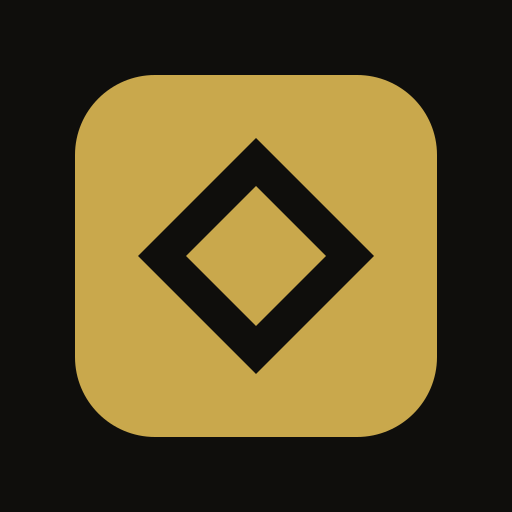
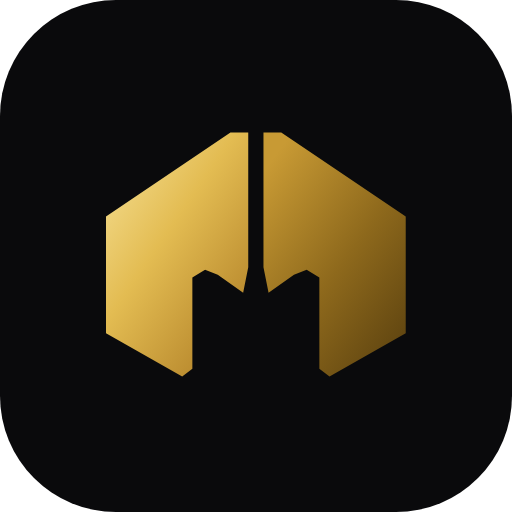
فاز ۲۹۸ی۴: ریبرندِ ملکجت — لوگومارکِ «M» + هیروی سینماییِ صفحهٔ اصلی
بهدستورِ کاربر (آپلودِ melkkhodro.zip). فاز ۱ از ریدیزاین: لوگو + صفحهٔ اصلی.

- Logo.tsx (جدید): لوگومارکِ «M» با دو شِورونِ طلایی، SVGِ وکتور که از پیکسلهای
  فایلِ طراحی تریس شد (viewBox 0 0 118 103، قرینه x=59؛ useId = SSR-safe). در Nav و Footer.
- فاوآیکون/PWA: public/icon.svg بازنویسی + icon-192/512.png از همان SVG رندر شد.
- هیروی صفحهٔ اصلی (HomeClient): سبکِ سینماییِ موکاپ — پسزمینهٔ همیشهتیره (گرادیانِ غروب،
  جای عکسِ ویلا)، دوستونه (متن راست، پنلِ شیشهای چپ)، چیپهای شیشهای.
- HeroSearch: حالتِ glass (پنلِ شیشهایِ بلوردار) اضافه شد.
- globals.css: ریسپانسیوِ دوستونهٔ هیرو (≥880px).

تاییدِ بصری با Playwright (دسکتاپ + موبایل)؛ tsc + build سبز. بقیهٔ صفحات هنوز سبکِ قبلیاند.

Claude-Session: https://claude.ai/code/session_01DpgNXiGwqnhdrqDtvwBqdn

diff --git a/melkjet-nextjs/app/HomeClient.tsx b/melkjet-nextjs/app/HomeClient.tsx
@@ -139,41 +139,49 @@ export default function HomeClient({ initial }: { initial: HomeData }) {
       <Nav />
 
       <main>
-      {/* HERO */}
-      <section style={{ position: 'relative', overflow: 'hidden', padding: 'clamp(52px,7vw,104px) 24px clamp(44px,5vw,80px)' }}>
-        <div style={{ position: 'absolute', inset: 0, pointerEvents: 'none', background: 'radial-gradient(900px 460px at 78% -8%,var(--goldDim),transparent 60%)' }}></div>
-        <div className="mjh-orb" style={{ position: 'absolute', top: '-12%', insetInlineEnd: '-8%', width: 'clamp(300px,38vw,560px)', height: 'clamp(300px,38vw,560px)', borderRadius: '50%', background: 'radial-gradient(circle, rgba(212,175,55,.28), transparent 68%)', filter: 'blur(24px)', pointerEvents: 'none', animation: 'mjfloat 9s ease-in-out infinite' }}></div>
-        <div className="mjh-orb" style={{ position: 'absolute', bottom: '-18%', insetInlineStart: '-10%', width: 'clamp(280px,34vw,520px)', height: 'clamp(280px,34vw,520px)', borderRadius: '50%', background: 'radial-gradient(circle, rgba(122,143,174,.22), transparent 68%)', filter: 'blur(28px)', pointerEvents: 'none', animation: 'mjfloat 11s ease-in-out infinite reverse' }}></div>
-        <div style={{ position: 'absolute', inset: 0, pointerEvents: 'none', backgroundImage: 'linear-gradient(var(--line) 1px,transparent 1px),linear-gradient(90deg,var(--line) 1px,transparent 1px)', backgroundSize: '54px 54px', opacity: 0.35, maskImage: 'radial-gradient(60% 55% at 50% 30%, #000, transparent 80%)', WebkitMaskImage: 'radial-gradient(60% 55% at 50% 30%, #000, transparent 80%)' }}></div>
-        <div style={{ position: 'relative', maxWidth: 980, margin: '0 auto', textAlign: 'center' }}>
-          <div style={{ display: 'inline-flex', alignItems: 'center', gap: 8, padding: '7px 14px', borderRadius: 999, border: '1px solid var(--gold)', background: 'var(--goldDim)', fontSize: 13, fontWeight: 700, color: 'var(--gold)' }}>
-            <span style={{ width: 7, height: 7, borderRadius: '50%', background: 'var(--gold)', boxShadow: '0 0 0 4px var(--goldDim)', animation: 'glow 2s infinite', display: 'inline-block' }}></span>
-            سیستمِ جامعِ املاک، ساختمان و مصالح
+      {/* HERO — ریبرندِ سینماییِ ۲۹۸ی۴ (همیشه تیره، مطابقِ موکاپ؛ عکسِ غروب بعداً جایگزینِ گرادیان) */}
+      <section style={{ position: 'relative', overflow: 'hidden', background: '#080b14', color: '#f3ede0', padding: 'clamp(56px,7vw,112px) 24px clamp(56px,7vw,96px)' }}>
+        {/* لایههای غروبِ سینمایی: آسمانِ شب بالا → درخششِ کهرباییِ افق → زمینِ تیره */}
+        <div aria-hidden style={{ position: 'absolute', inset: 0, pointerEvents: 'none', background: 'radial-gradient(1200px 560px at 70% 48%, rgba(236,151,56,.40), rgba(188,108,38,.14) 42%, transparent 70%), radial-gradient(880px 440px at 85% -12%, rgba(247,222,146,.20), transparent 62%), linear-gradient(180deg,#060810 0%,#0a0e1a 36%,#171209 100%)' }}></div>
+        <div className="mjh-orb" style={{ position: 'absolute', top: '-10%', insetInlineEnd: '-6%', width: 'clamp(300px,38vw,560px)', height: 'clamp(300px,38vw,560px)', borderRadius: '50%', background: 'radial-gradient(circle, rgba(236,170,70,.30), transparent 68%)', filter: 'blur(26px)', pointerEvents: 'none', animation: 'mjfloat 9s ease-in-out infinite' }}></div>
+        <div className="mjh-orb" style={{ position: 'absolute', bottom: '-20%', insetInlineStart: '-10%', width: 'clamp(280px,34vw,520px)', height: 'clamp(280px,34vw,520px)', borderRadius: '50%', background: 'radial-gradient(circle, rgba(70,96,150,.26), transparent 68%)', filter: 'blur(30px)', pointerEvents: 'none', animation: 'mjfloat 11s ease-in-out infinite reverse' }}></div>
+        {/* وینیِتِ پایین برای عمق */}
+        <div aria-hidden style={{ position: 'absolute', left: 0, right: 0, bottom: 0, height: '46%', pointerEvents: 'none', background: 'linear-gradient(180deg,transparent,rgba(4,6,11,.82))' }}></div>
+
+        <div className="mjhero-grid" style={{ position: 'relative', maxWidth: 1200, margin: '0 auto', display: 'grid', gridTemplateColumns: '1fr', gap: 'clamp(30px,4vw,52px)', alignItems: 'center' }}>
+          {/* ستونِ متن (سمتِ راست/آغاز در RTL) */}
+          <div style={{ textAlign: 'right' }}>
+            <div style={{ display: 'inline-flex', alignItems: 'center', gap: 8, padding: '7px 14px', borderRadius: 999, border: '1px solid rgba(247,222,146,.4)', background: 'rgba(247,222,146,.09)', fontSize: 13, fontWeight: 700, color: '#F7DE92' }}>
+              <span style={{ width: 7, height: 7, borderRadius: '50%', background: '#F7DE92', boxShadow: '0 0 0 4px rgba(247,222,146,.18)', animation: 'glow 2s infinite', display: 'inline-block' }}></span>
+              سیستمِ جامعِ املاک، ساختمان و مصالح
+            </div>
+            <h1 style={{ marginTop: 20, fontSize: 'clamp(34px,5.6vw,62px)', lineHeight: 1.14, fontWeight: 800, letterSpacing: '-1px', color: '#F6F1E6', textShadow: '0 2px 30px rgba(0,0,0,.4)' }}>
+              خانهی بعدیات،<br />
+              <span style={{ background: 'linear-gradient(120deg,#F7DE92,#D9AD3E)', WebkitBackgroundClip: 'text', WebkitTextFillColor: 'transparent', backgroundClip: 'text' }}>هوشمندانه</span> انتخاب میشود
+            </h1>
+            <p style={{ margin: '20px 0 0', maxWidth: 560, fontSize: 'clamp(15px,2vw,18.5px)', lineHeight: 1.85, color: 'rgba(244,238,225,.78)' }}>
+              به زبان خودت بگو چه میخواهی. ملکجت بازار را تحلیل میکند، دلیل هر پیشنهاد را توضیح میدهد و کنارت میماند تا بهترین تصمیم را بگیری.
+            </p>
+            {/* دسترسیِ سریع به همهٔ اکوسیستمها — قرصهای شیشهای */}
+            <div style={{ display: 'flex', flexWrap: 'wrap', gap: 10, marginTop: 26 }}>
+              {[
+                { l: 'خرید و اجارهٔ ملک', h: '/search', ic: '🏠' },
+                { l: 'بازارِ مصالح', h: '/materials-market', ic: '🧱' },
+                { l: 'نرخِ روزِ مصالح', h: '/materials-prices', ic: '📊' },
+                { l: 'متخصصان', h: '/directory', ic: '👷' },
+                { l: 'سازندگان', h: '/builders', ic: '🏗' },
+                { l: 'دستیارِ AI', h: '/plan-ai', ic: '🤖' },
+              ].map(p => (
+                <Link key={p.l} href={p.h} style={{ display: 'inline-flex', alignItems: 'center', gap: 7, padding: '9px 16px', borderRadius: 999, border: '1px solid rgba(247,222,146,.22)', background: 'rgba(255,255,255,.05)', color: 'rgba(244,238,225,.9)', textDecoration: 'none', fontSize: 13, fontWeight: 600, backdropFilter: 'blur(6px)' }}>
+                  <span>{p.ic}</span>{p.l}
+                </Link>
+              ))}
+            </div>
           </div>
-          <h1 style={{ marginTop: 22, fontSize: 'clamp(34px,6vw,64px)', lineHeight: 1.12, fontWeight: 800, letterSpacing: '-1px', color: 'var(--text)' }}>
-            خانهی بعدیات،<br />
-            <span style={{ background: 'linear-gradient(120deg,var(--gold2),var(--gold))', WebkitBackgroundClip: 'text', WebkitTextFillColor: 'transparent', backgroundClip: 'text' }}>هوشمندانه</span> انتخاب میشود
-          </h1>
-          <p style={{ margin: '20px auto 0', maxWidth: 620, fontSize: 'clamp(15px,2vw,18.5px)', lineHeight: 1.85, color: 'var(--muted)' }}>
-            به زبان خودت بگو چه میخواهی. ملکجت بازار را تحلیل میکند، دلیل هر پیشنهاد را توضیح میدهد و کنارت میماند تا بهترین تصمیم را بگیری.
-          </p>
 
-          <HeroSearch examples={examples} />
-
-          {/* دسترسیِ سریع به همهٔ اکوسیستمها */}
-          <div style={{ display: 'flex', flexWrap: 'wrap', justifyContent: 'center', gap: 10, marginTop: 26 }}>
-            {[
-              { l: 'خرید و اجارهٔ ملک', h: '/search', ic: '🏠' },
-              { l: 'بازارِ مصالح', h: '/materials-market', ic: '🧱' },
-              { l: 'نرخِ روزِ مصالح', h: '/materials-prices', ic: '📊' },
-              { l: 'متخصصان', h: '/directory', ic: '👷' },
-              { l: 'سازندگان', h: '/builders', ic: '🏗' },
-              { l: 'دستیارِ AI', h: '/plan-ai', ic: '🤖' },
-            ].map(p => (
-              <Link key={p.l} href={p.h} style={{ display: 'inline-flex', alignItems: 'center', gap: 7, padding: '9px 16px', borderRadius: 999, border: '1px solid var(--line2)', background: 'var(--surface)', color: 'var(--text)', textDecoration: 'none', fontSize: 13, fontWeight: 600 }}>
-                <span>{p.ic}</span>{p.l}
-              </Link>
-            ))}
+          {/* ستونِ پنلِ جستوجو (سمتِ چپ/پایان) — پنلِ شیشهای */}
+          <div style={{ width: '100%' }}>
+            <HeroSearch examples={examples} glass />
           </div>
         </div>
       </section>

diff --git a/melkjet-nextjs/app/components/home/HeroSearch.tsx b/melkjet-nextjs/app/components/home/HeroSearch.tsx
@@ -4,22 +4,35 @@ import { useRouter } from 'next/navigation'
 
 // جزیرهٔ تعاملیِ جعبهٔ جستجوی صفحهٔ اصلی. بقیهٔ صفحه server-render میشود؛ فقط همین
 // (بههمراه FAQ و دکمهٔ لایک) در مرورگر hydrate میشود تا main-thread سبک بماند.
-export default function HeroSearch({ examples }: { examples: string[] }) {
+// فاز ۲۹۸ی۴ (ریبرند): حالتِ glass — پنلِ شیشهایِ هیروی سینماییِ تیره (مطابقِ موکاپ).
+export default function HeroSearch({ examples, glass = false }: { examples: string[]; glass?: boolean }) {
   const [query, setQuery] = useState('')
   const router = useRouter()
   const runSearch = () => { const q = query.trim(); router.push(q ? `/search?q=${encodeURIComponent(q)}` : '/search') }
   const fillQuery = (text: string) => { setQuery(text); router.push(`/search?q=${encodeURIComponent(text)}`) }
+
+  const card: React.CSSProperties = glass
+    ? { position: 'relative', background: 'rgba(20,22,30,.52)', border: '1px solid rgba(247,222,146,.26)', borderRadius: 24, padding: 20, boxShadow: '0 30px 80px -30px rgba(0,0,0,.7), inset 0 1px 0 rgba(255,255,255,.06)', backdropFilter: 'blur(20px)', WebkitBackdropFilter: 'blur(20px)' }
+    : { position: 'relative', background: 'var(--surface)', border: '1px solid var(--line2)', borderRadius: 18, padding: 18, boxShadow: 'var(--shadow)' }
+  const taColor = glass ? '#f3ede0' : 'var(--text)'
+  const sendBtn: React.CSSProperties = { flexShrink: 0, height: 48, padding: '0 22px', border: 'none', borderRadius: 13, background: 'linear-gradient(140deg,#F7DE92,#D9AD3E 60%,#A9761D)', color: '#16140f', fontFamily: 'inherit', fontWeight: 800, fontSize: 15, cursor: 'pointer', boxShadow: '0 12px 28px -10px rgba(217,173,62,.7)' }
+  const hintColor = glass ? 'rgba(244,238,225,.6)' : 'var(--faint)'
+  const chip: React.CSSProperties = glass
+    ? { padding: '7px 13px', borderRadius: 999, border: '1px solid rgba(247,222,146,.22)', background: 'rgba(255,255,255,.05)', color: 'rgba(244,238,225,.85)', fontFamily: 'inherit', fontSize: 12.5, cursor: 'pointer' }
+    : { padding: '7px 13px', borderRadius: 999, border: '1px solid var(--line)', background: 'var(--bg2)', color: 'var(--muted)', fontFamily: 'inherit', fontSize: 12.5, cursor: 'pointer' }
+  const divider = glass ? '1px solid rgba(247,222,146,.16)' : '1px solid var(--line)'
+
   return (
-    <div style={{ margin: '34px auto 0', maxWidth: 740, textAlign: 'right' }}>
-      <div style={{ position: 'relative', background: 'var(--surface)', border: '1px solid var(--line2)', borderRadius: 18, padding: 18, boxShadow: 'var(--shadow)' }}>
+    <div style={{ margin: glass ? 0 : '34px auto 0', maxWidth: glass ? undefined : 740, width: '100%', textAlign: 'right' }}>
+      <div style={card}>
         <div style={{ display: 'flex', gap: 12, alignItems: 'flex-start' }}>
-          <textarea value={query} onChange={e => setQuery(e.target.value)} onKeyDown={e => { if (e.key === 'Enter' && !e.shiftKey) { e.preventDefault(); runSearch() } }} placeholder="مثلاً: آپارتمان ۱۳۰ متری در سعادتآباد، زیر ۱۸ میلیارد، با آسانسور و پارکینگ، نزدیک مترو…" rows={2} style={{ flex: 1, resize: 'none', border: 'none', outline: 'none', background: 'transparent', color: 'var(--text)', fontFamily: 'inherit', fontSize: 16, lineHeight: 1.7, paddingTop: 8 }} />
-          <button onClick={runSearch} style={{ flexShrink: 0, height: 48, padding: '0 22px', border: 'none', borderRadius: 13, background: 'linear-gradient(140deg,var(--gold2),var(--gold))', color: '#16140f', fontFamily: 'inherit', fontWeight: 700, fontSize: 15, cursor: 'pointer', boxShadow: '0 10px 24px -10px var(--gold)' }}>جستجو</button>
+          <textarea value={query} onChange={e => setQuery(e.target.value)} onKeyDown={e => { if (e.key === 'Enter' && !e.shiftKey) { e.preventDefault(); runSearch() } }} placeholder="مثلاً: آپارتمان ۱۳۰ متری در سعادتآباد، زیر ۱۸ میلیارد، با آسانسور و پارکینگ، نزدیک مترو…" rows={glass ? 3 : 2} style={{ flex: 1, resize: 'none', border: 'none', outline: 'none', background: 'transparent', color: taColor, fontFamily: 'inherit', fontSize: 16, lineHeight: 1.7, paddingTop: 8 }} />
+          <button onClick={runSearch} style={sendBtn}>جستجو</button>
         </div>
-        <div style={{ display: 'flex', flexWrap: 'wrap', gap: 8, marginTop: 14, paddingTop: 14, borderTop: '1px solid var(--line)' }}>
-          <span style={{ fontSize: 12.5, color: 'var(--faint)', alignSelf: 'center' }}>امتحان کنید:</span>
+        <div style={{ display: 'flex', flexWrap: 'wrap', gap: 8, marginTop: 14, paddingTop: 14, borderTop: divider }}>
+          <span style={{ fontSize: 12.5, color: hintColor, alignSelf: 'center' }}>امتحان کنید:</span>
           {examples.map(ex => (
-            <button key={ex} onClick={() => fillQuery(ex)} style={{ padding: '7px 13px', borderRadius: 999, border: '1px solid var(--line)', background: 'var(--bg2)', color: 'var(--muted)', fontFamily: 'inherit', fontSize: 12.5, cursor: 'pointer' }}>{ex}</button>
+            <button key={ex} onClick={() => fillQuery(ex)} style={chip}>{ex}</button>
           ))}
         </div>
       </div>

diff --git a/melkjet-nextjs/app/components/Logo.tsx b/melkjet-nextjs/app/components/Logo.tsx
@@ -1,0 +1,57 @@
+'use client'
+import { useId } from 'react'
+
+// ── لوگوی ملکجت (ریبرندِ ۲۹۸ی۴) ───────────────────────────────────────────
+// لوگومارکِ «M» با دو شِورونِ طلایی (چپ روشن، راست برنزیِ تیرهتر) — وکتورِ قطعی،
+// از روی پیکسلهای فایلِ طراحیِ کاربر تریس شده (viewBox 0 0 118 103، قرینه حولِ x=59).
+// SVG است تا در هر اندازه تیز بماند و با تم کار کند؛ «ملکجت» با فونتِ برند (Vazirmatn)
+// در طلایی رندر میشود (طبقِ قاعدهٔ برند: هرگز حروفِ فارسیِ دستکشیده).
+
+interface LogoProps {
+  height?: number
+  /** نمایشِ ناموارهٔ «ملکجت» کنارِ لوگومارک */
+  word?: boolean
+  /** رنگِ متنِ نامواره؛ پیشفرض گرادیانِ طلایی */
+  wordTone?: 'gold' | 'text'
+  className?: string
+  title?: string
+}
+
+export default function Logo({ height = 34, word = true, wordTone = 'gold', className, title = 'ملکجت' }: LogoProps) {
+  // شناسهٔ یکتا و پایدار (SSR-safe) برای گرادیانها تا چند لوگو در یک صفحه تداخل نکنند.
+  const uid = `mjl${useId().replace(/:/g, '')}`
+  const markW = (height * 118) / 103
+  return (
+    <span className={className} style={{ display: 'inline-flex', alignItems: 'center', gap: Math.round(height * 0.34), lineHeight: 1 }} aria-label={title}>
+      <svg width={markW} height={height} viewBox="0 0 118 103" role="img" aria-hidden={word ? true : undefined} style={{ display: 'block', flexShrink: 0 }}>
+        <defs>
+          <linearGradient id={`${uid}L`} x1="0" y1="0" x2="0.85" y2="1">
+            <stop offset="0" stopColor="#F7E39A" />
+            <stop offset="0.45" stopColor="#E3BC52" />
+            <stop offset="1" stopColor="#B07F26" />
+          </linearGradient>
+          <linearGradient id={`${uid}R`} x1="0.2" y1="0" x2="1" y2="1">
+            <stop offset="0" stopColor="#C89A34" />
+            <stop offset="0.5" stopColor="#8E691C" />
+            <stop offset="1" stopColor="#573E0E" />
+          </linearGradient>
+        </defs>
+        {/* نیمهٔ چپ (روشن) */}
+        <path fill={`url(#${uid}L)`} d="M49 3 L56 3 L56 56 L54 66 L44 59 L39 57 L34 60 L34 96 L30 99 L0 82 L0 36 Z" />
+        {/* نیمهٔ راست (برنزیِ تیره) — قرینهٔ x'=118-x */}
+        <path fill={`url(#${uid}R)`} d="M69 3 L62 3 L62 56 L64 66 L74 59 L79 57 L84 60 L84 96 L88 99 L118 82 L118 36 Z" />
+      </svg>
+      {word && (
+        <span style={{
+          fontFamily: 'Vazirmatn, system-ui, sans-serif',
+          fontWeight: 800,
+          fontSize: Math.round(height * 0.62),
+          letterSpacing: '-.5px',
+          ...(wordTone === 'gold'
+            ? { background: 'linear-gradient(100deg,#F7DE92,#D9AD3E 55%,#A9761D)', WebkitBackgroundClip: 'text', backgroundClip: 'text', WebkitTextFillColor: 'transparent', color: 'transparent' as const }
+            : { color: 'var(--text)' }),
+        }}>ملکجت</span>
+      )}
+    </span>
+  )
+}

diff --git a/melkjet-nextjs/app/components/Footer.tsx b/melkjet-nextjs/app/components/Footer.tsx
@@ -2,6 +2,7 @@
 import Link from 'next/link'
 import { useEffect, useState } from 'react'
 import { DEFAULT_SITE, type SiteFooter } from '@/app/lib/site-defaults'
+import Logo from './Logo'
 
 // فاز ۹۸: فوتر از تنظیماتِ سوپرادمین میخواند (admin → تنظیماتِ سایت و صفحهها).
 // پیشفرض = همان محتوای همیشگی، پس تا وقتی ادمین چیزی عوض نکرده هیچ تغییری دیده
@@ -41,10 +42,8 @@ export default function Footer() {
       <div style={{ maxWidth: 1280, margin: '0 auto', padding: '56px 24px 28px', display: 'grid', gridTemplateColumns: '1.4fr 1fr 1fr 1fr', gap: 32 }}>
         <div>
           <Link href="/" style={{ display: 'flex', alignItems: 'center', gap: 11, textDecoration: 'none', color: 'var(--text)' }}>
-            <span style={{ width: 34, height: 34, borderRadius: 10, background: 'linear-gradient(140deg,var(--gold2),var(--gold))', display: 'flex', alignItems: 'center', justifyContent: 'center' }}>
-              <span style={{ width: 13, height: 13, background: 'var(--bg2)', transform: 'rotate(45deg)', borderRadius: 2, display: 'block' }}></span>
-            </span>
-            <span style={{ fontWeight: 800, fontSize: 20 }}>ملکجت</span>
+            {/* ریبرندِ ۲۹۸ی۴ — لوگومارکِ «M» طلایی */}
+            <Logo height={34} word />
           </Link>
           <p style={{ marginTop: 16, fontSize: 13.5, lineHeight: 1.9, color: 'var(--muted)', maxWidth: 280 }}>{f.blurb}</p>
           {contactRows.length > 0 && (

diff --git a/melkjet-nextjs/app/components/Nav.tsx b/melkjet-nextjs/app/components/Nav.tsx
@@ -4,6 +4,7 @@ import Link from 'next/link'
 import ThemeToggle from './ThemeToggle'
 import CitySelector from './CitySelector'
 import { openAuth } from './AuthModal'
+import Logo from './Logo'
 
 const DASH_LABEL: Record<string, string> = {
   '/admin': 'پنل مدیریت', '/builder': 'پنل سازنده', '/pros': 'پنل مشاور',
@@ -94,12 +95,10 @@ export default function Nav() {
           </>) : (brand?.logoLight || brand?.logoDark) ? (
             // eslint-disable-next-line @next/next/no-img-element
             <img src={(brand.logoLight || brand.logoDark) as string} alt={brand.name || 'ملکجت'} style={{ height: 34, maxWidth: 170, objectFit: 'contain' }} />
-          ) : (<>
-            <span style={{ width: 34, height: 34, borderRadius: 10, background: 'linear-gradient(140deg,var(--gold2),var(--gold))', display: 'flex', alignItems: 'center', justifyContent: 'center', boxShadow: '0 6px 18px -6px var(--gold)' }}>
-              <span style={{ width: 13, height: 13, background: 'var(--bg)', transform: 'rotate(45deg)', borderRadius: 2, display: 'block' }} />
-            </span>
-            <span style={{ fontWeight: 800, fontSize: 20, letterSpacing: '-.5px' }}>{brand?.name || 'ملکجت'}</span>
-          </>)}
+          ) : (
+            // ریبرندِ ۲۹۸ی۴ — لوگومارکِ «M» طلایی + ناموارهٔ ملکجت (وکتور، تیز در هر اندازه)
+            <Logo height={32} word />
+          )}
         </Link>
 
         <CitySelector />

diff --git a/melkjet-nextjs/app/globals.css b/melkjet-nextjs/app/globals.css
@@ -305,6 +305,8 @@ body { padding-bottom: env(safe-area-inset-bottom); }
 @media(max-width:560px){.mjh-serv{grid-template-columns:1fr 1fr!important}}
 @keyframes mjfloat{0%,100%{transform:translate(0,0) scale(1)}50%{transform:translate(-14px,18px) scale(1.06)}}
 @media(prefers-reduced-motion:reduce){.mjh-orb{animation:none!important}}
+/* هیروی ریبرند (۲۹۸ی۴): دسکتاپ دوستونه — متن سمتِ راست، پنلِ شیشهای سمتِ چپ */
+@media(min-width:880px){.mjhero-grid{grid-template-columns:1.05fr .95fr!important}}
 
 /* فاز ۱۰۹ (Visual Pass 2): شهرِ زندهٔ خطِ آسمان — خودرو/باران/برف/ابر/رعد؛ با احترامِ کامل به reduced-motion */
 @keyframes empDrive{from{left:-7%}to{left:104%}}

diff --git a/melkjet-nextjs/CLAUDE.md b/melkjet-nextjs/CLAUDE.md
@@ -959,12 +959,19 @@ server-rendered است (HTML، بدونِ React/JSON-LD) → فقط fetch + rege
   مرزِ زنجیرهٔ آدرس + آگهیِ تکخطی + دروازه/پاکسازیِ ML). `roster-ml-test.mjs` هم هنوز
   فلایویل را اثبات میکند (AI: ۱۲→۳، پوششِ بدونِ AI سالم).
 
-### برند — قفلشده
-نشانِ **«مُهر» (SEAL)**: قابِ طلاییِ برجسته با طاقِ ایرانی. نامواره با فونتِ واقعیِ
-**Vazirmatn Black** (هرگز حروفِ فارسیِ دستکشیده — چهار بار شکست خورد).
-پالت: `#F7DE92 / #D9AD3E / #A9761D` روی `#0E1218`؛ در تمِ روشن طلا به
-`#7A5312 → #C99A2E` تیره میشود. خودروجت **همان طلا**، فقط نام و موتیف فرق دارد.
-کیتِ کامل (دارک/لایت، فاوآیکون، المانِ تنها، mipmap+adaptive) تحویل شده.
+### برند — ریبرندِ ۲۹۸ی۴ (لوگومارکِ «M»؛ جایگزینِ «مُهر»)
+**بهدستورِ صریحِ کاربر** (آپلودِ `melkkhodro.zip`) لوگوی برند از نشانِ «مُهر/SEAL» به
+**لوگومارکِ «M» با دو شِورونِ طلایی** عوض شد: نیمهٔ چپ طلاییِ روشن، نیمهٔ راست برنزیِ تیرهتر.
+کامپوننتِ واحد: `app/components/Logo.tsx` — **SVGِ وکتور** (از پیکسلهای فایلِ طراحی تریس شد،
+viewBox `0 0 118 103`، قرینه حولِ x=59؛ `useId` برای idِ گرادیان = SSR-safe)، در Nav و Footer.
+فاوآیکون/PWA: `public/icon.svg` + `icon-192/512.png` (از همان SVG با کرومیومِ محلی رندر شد).
+نامواره همچنان **«ملکجت» با Vazirmatn** (قاعدهٔ قدیمی پابرجا: هرگز حروفِ فارسیِ دستکشیده).
+پالت دستنخورده: `#F7DE92 / #D9AD3E / #A9761D` روی `#0E1218`.
+**هیروی صفحهٔ اصلی** (`HomeClient.tsx`) به سبکِ سینماییِ موکاپ بازطراحی شد: پسزمینهٔ
+«همیشهتیره» (گرادیانِ غروب — جای عکسِ ویلا که کاربر بعداً میفرستد)، چیدمانِ دوستونه
+(متن سمتِ راست، پنلِ شیشهایِ `HeroSearch glass` سمتِ چپ)، چیپهای شیشهای. تاییدِ بصری با
+Playwright (دسکتاپ + موبایل). **فاز ۱ از ریدیزاین؛ بقیهٔ صفحات هنوز سبکِ قبلیاند** — طبقِ
+توافق صفحهبهصفحه پیش میرود. خودروجت **همان طلا**، فقط نام و موتیف فرق دارد.
 
 ### اپِ اندروید
 پروژهٔ کاملِ `melkjet-android/` (۲۳۹۴ خط، ۲۲ فایل) بهصورتِ zip تحویل شده ولی
